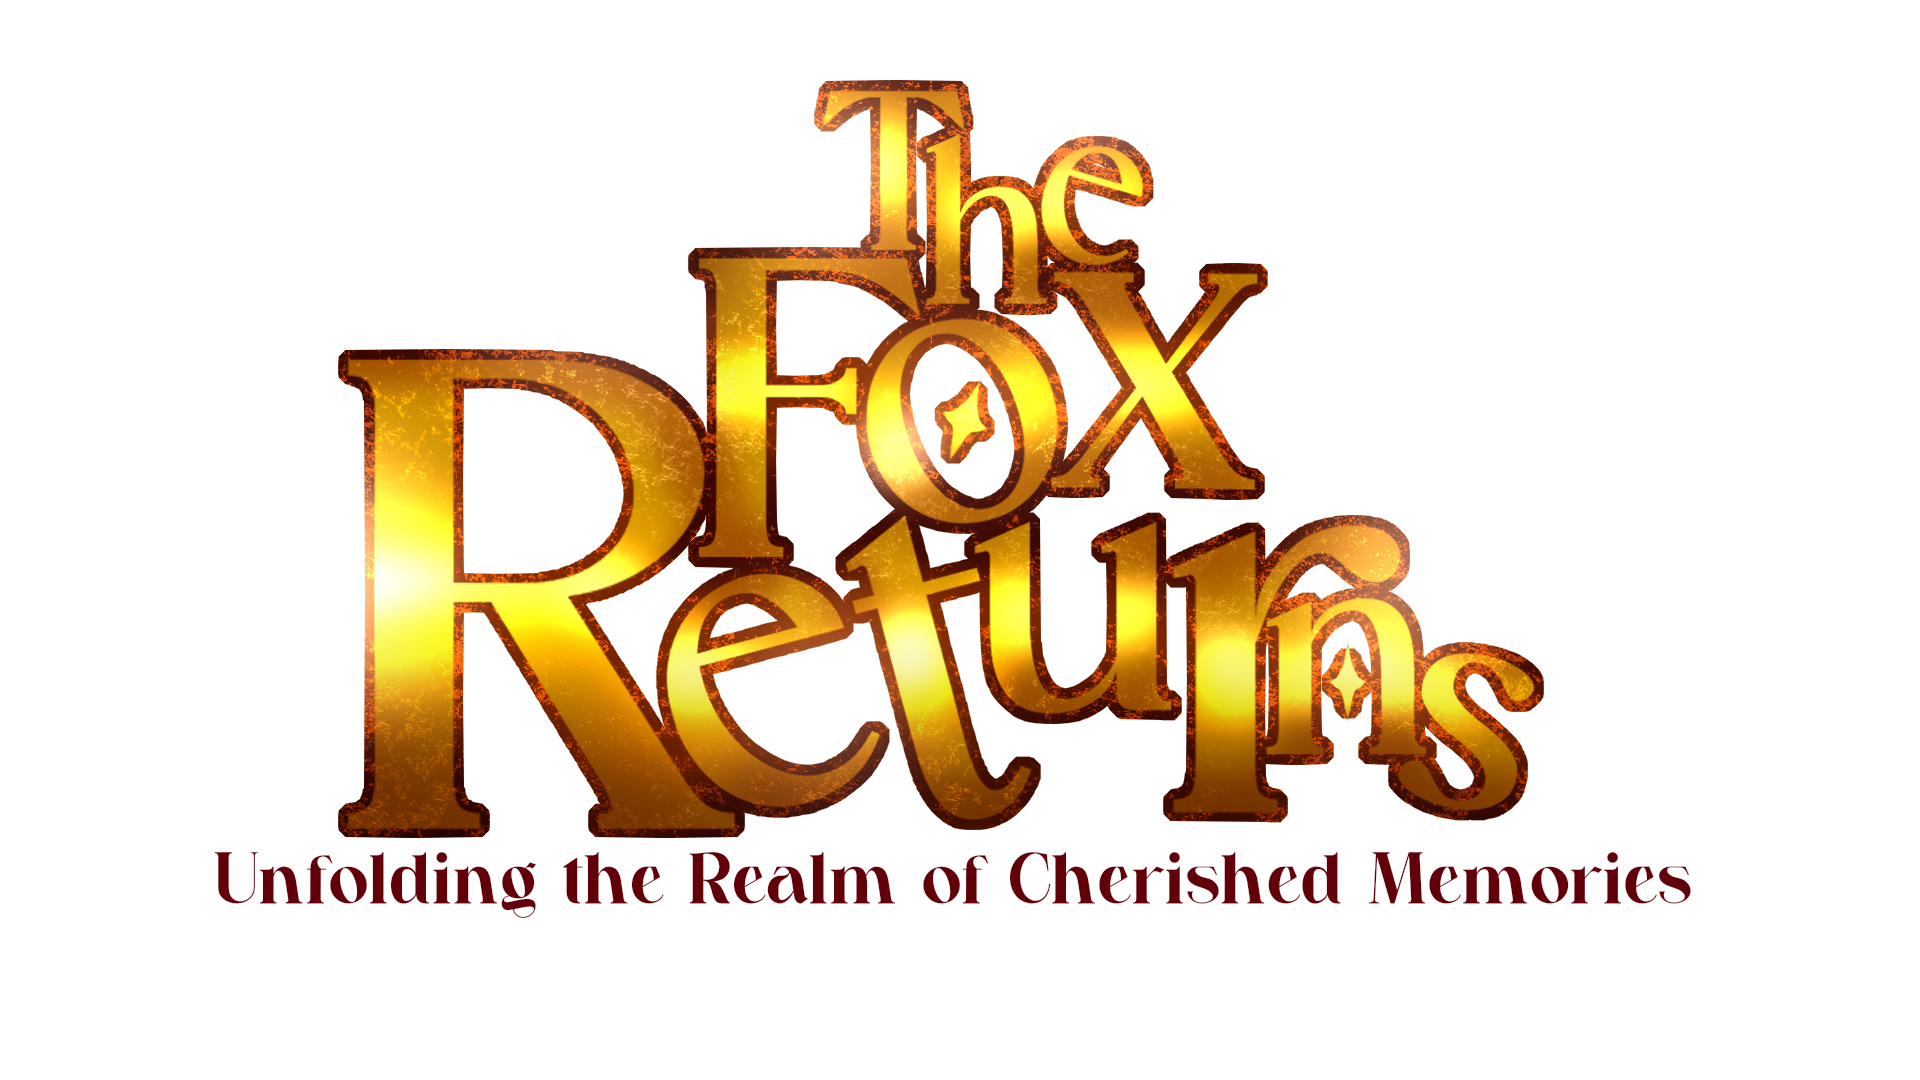
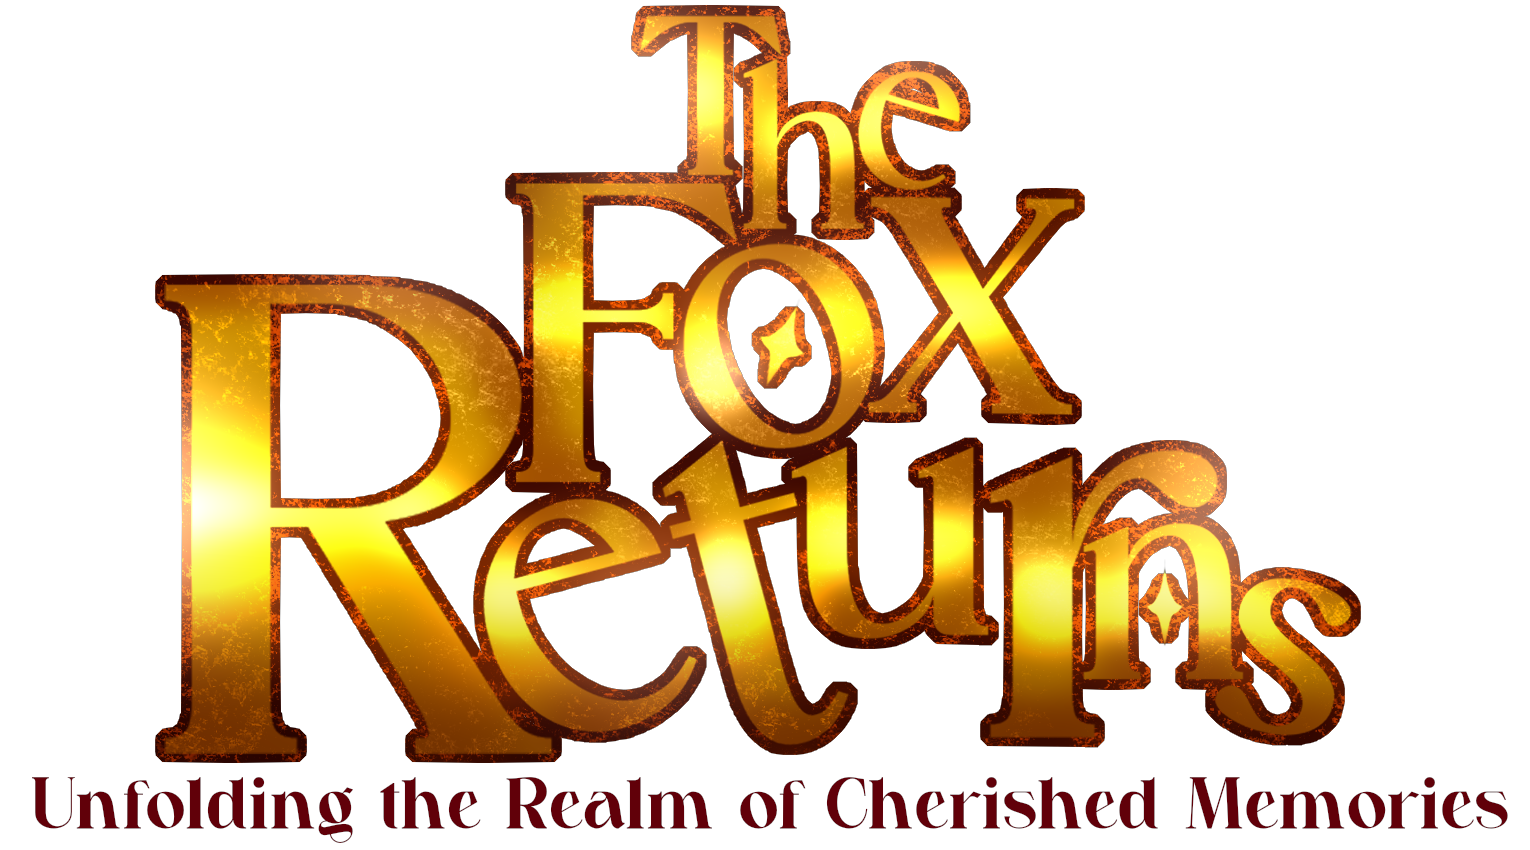
Fixed responsive design.

diff --git a/assets/style.css b/assets/style.css
@@ -13,7 +13,7 @@
 
   background: var(--tan);
   background-size: cover;
-  height: auto;
+  height: 100%;
   cursor: var(--default);
 }
 
@@ -33,7 +33,8 @@ body{
 
 #head-logo{
   display: flex;
-  width: 30em;
+  width: 20em;
+  padding: 1.5em 0em 1em 0em;
 }
 
 
@@ -93,7 +94,7 @@ body{
 }
 .header{
   margin-top:1em;
-  width: 25em;
+  width: 20em;
 }
 #event-name{
   font-family: "Belgan";
@@ -103,7 +104,7 @@ body{
   color: var(--black);
 }
 .sheet{
-    width: 25em;
+    width: 20em;
     display: flex;
     justify-content: center;
     align-items: center;
